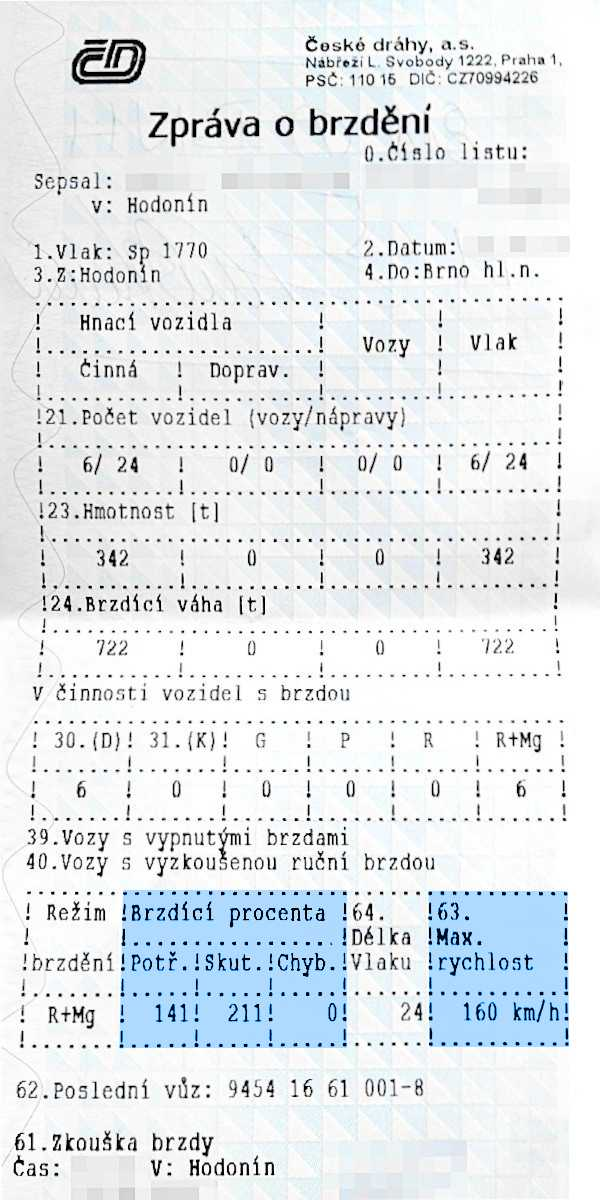
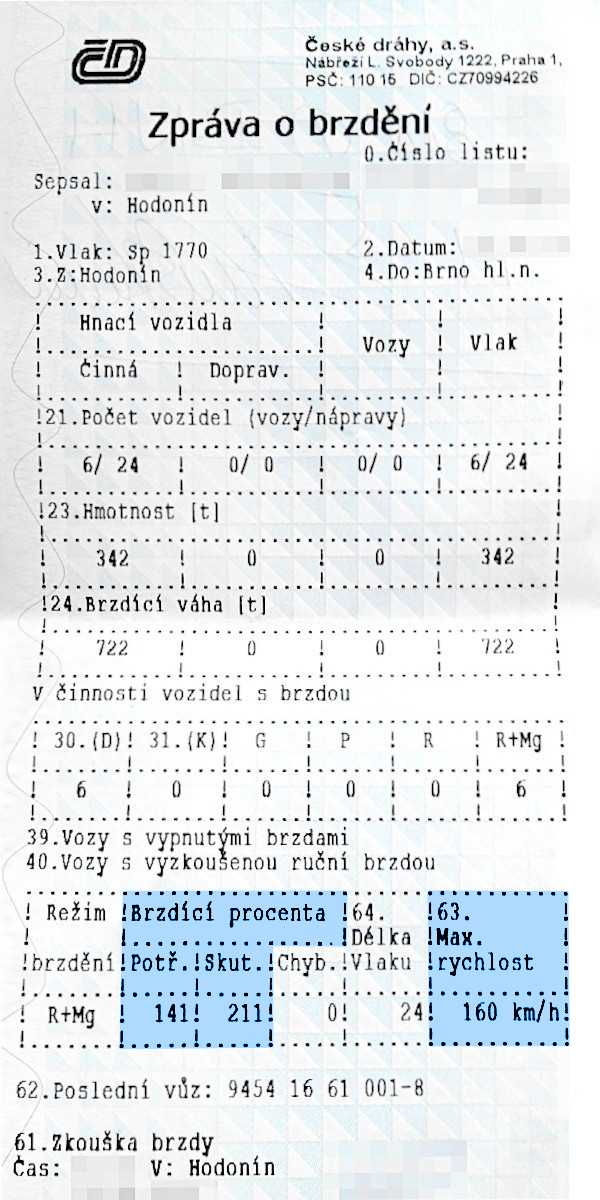
rozpracovane
+ zob-popka WEBP
+ komentáře
+ refaktoring výpočtu, nový způsob vypisování výsledků

Changed region(s): [[0.18, 0.74, 0.6, 0.8942], [0.69, 0.74, 0.96, 0.8633]]

diff --git a/aplikace/sw.js b/aplikace/sw.js
@@ -16,6 +16,7 @@ self.addEventListener('install', e => {
         '/knihovny/brython/brython.js',
         '/knihovny/brython/unicode.txt',
         '/obrazky/zob-popka.jpg',
+        '/obrazky/zob-popka.webp',
         '/obrazky/ikony/android-chrome-192x192.png',
         '/obrazky/ikony/android-chrome-512x512.png',
         '/obrazky/ikony/apple-touch-icon.png',

diff --git a/aplikace/logika.py b/aplikace/logika.py
@@ -1,23 +1,27 @@
+# externí knihovny, třídy atd.
 from browser import window, document, alert
 from javascript import Date
 sw_alert = window.Swal.fire
 
+# globální konstanty
 NAZEV_APLIKACE = "Brzděnka+"
 VERZE = "verze 0.3 | 0.B.3 (\u03B2)"
 AKTUALNI_ROK = Date.new().getFullYear()
 AUTOR = f"\u00A9 {AKTUALNI_ROK}&nbsp;&nbsp;Martin TÁBOR"
 UPOZORNENI = "!!! Všechny informace jsou bez záruky !!!".upper()
-OBRAZEK_ZOB = "./obrazky/zob-popka.jpg"
+OBRAZEK_ZOB = "./obrazky/zob-popka.webp"  # případně *.jpg
 
-barva_normal = "#0073d7" #  modrá
-barva_pozor = "#D70000" #  červená
+BARVA_NORMAL = "#0073d7"  # modrá
+BARVA_POZOR = "#D70000"  # červená
 
+# deklarace globálních proměnných
 tabulka_rychlosti = False
 potrebna_procenta = 0
 skutecna_procenta = 0
-chyby_procent = 0
+chybi_procent = 0
 max_rychlost = 0
 
+# přístup k objektům DOM
 titulek = document["titulek"]
 podnadpis = document["podnadpis"]
 radio_tabulka_ano = document["radio_tabulka_ano"]
@@ -25,148 +29,196 @@ radio_tabulka_ne = document["radio_tabulka_ne"]
 div_formular_vypocet = document["formular_vypocet"]
 input_potrebna = document["input_potrebna_procenta"]
 input_skutecna = document["input_skutecna_procenta"]
-input_chybejici = document["input_chybejici_procenta"]
 label_chybejici = document["label_chybejici_procenta"]
+input_chybejici = document["input_chybejici_procenta"]
 input_max_rychlost = document["input_max_rychlost"]
 button_vypocitat = document["button_vypocitat"]
 button_reset = document["button_reset"]
 
-def napoveda_vyplneni(ev):
+
+def chybne_vyplneni(ev, title, text):
     sw_alert({
-        "title": "Jak na to ?",
-        "text": "Jednoduše opište vyznačené údaje ze ZOB do formuláře\u2026",
+        "title": title,
+        "text": text,
         "icon": "question",
         "confirmButtonText": "Heuréka !",
-        "confirmButtonColor": barva_normal,
+        "confirmButtonColor": BARVA_NORMAL,
         "showCloseButton": True,
         "imageUrl": OBRAZEK_ZOB,
         "imageWidth": 600,
         "imageHeight": 1200,
-        "imageAlt": "Zpráva o brzdění"
+        "imageAlt": "Zpráva o brzdění z POP"
     })
 
 def zpracuj_vysledek(vstup):
     # alert(f"{vstup}\n\n{UPOZORNENI}\n\n{AUTOR}")
+
+    zprava_max_rychlost = "Maximální rychlost vlaku je {} km/h!"
+    zprava_u_vystrahy = "\nV úrovni návěsti Výstraha však max. {} km/h!"
+    zprava_nelze_rozklad = "\nNELZE použít rozklad."
+    
     sw_alert({
         "title": "Zpomal",
         "html": f"{vstup}",
         "icon": "warning",
         "confirmButtonText": "Budiž",
-        "confirmButtonColor": barva_pozor,
-        "footer": f"<div style='text-align: center;'><span style='color: {barva_pozor}'>{UPOZORNENI}</span><br>{AUTOR}</div>"
+        "confirmButtonColor": BARVA_POZOR,
+        "footer": f"<div style='text-align: center;'><span style='color: {BARVA_POZOR}'>{UPOZORNENI}</span><br>{AUTOR}</div>"
     })
 
 def vypocitat(ev):
-    if potrebna_procenta > 0 and skutecna_procenta > 0 and max_rychlost > 0:
-    
-        potrebna_p = potrebna_procenta
-        skutecna_p = skutecna_procenta
-        rychlost_vlaku = max_rychlost
-        
-        zprava = "Maximální rychlost vlaku je {} km/h!"
-        zprava2 = "\nV úrovni návěsti Výstraha však max. {} km/h!"
-        nelze_rozklad = "\nNELZE použít rozklad."
+    if input_potrebna.value.isnumeric() \
+        and input_skutecna.value.isnumeric() \
+            and input_max_rychlost.value.isnumeric():
 
-        # Vstupní parametry
-        prc_mensi_45 = False
-        rych_120_a_vice = False
-        prc_chybejici = potrebna_p - skutecna_p
-        if skutecna_p <= 45:
-            prc_mensi_45 = True
-        if rychlost_vlaku >= 120:
-            rych_120_a_vice = True
-        
-        if potrebna_p == skutecna_p:
-            zpracuj_vysledek("""Rychlost není třeba přepočítávat.
-Brzděte již v dostatečné vzdálenosti před výstrahou!
+        if potrebna_procenta > 0 \
+            and skutecna_procenta > 0 \
+                and max_rychlost > 0:
 
-(Skutečná brzdící procenta jsou stejná jako potřebná.)""")
-        
-        elif 0 < (skutecna_p - potrebna_p) <= 10:
-            zpracuj_vysledek(f"""Rychlost není třeba přepočítávat.
-Brzděte však v dostatečné vzdálenosti před výstrahou!
+            # načtení vstupních hodnot
+            global potrebna_procenta
+            potrebna_procenta = int(input_potrebna.value)
+            global skutecna_procenta
+            skutecna_procenta = int(input_skutecna.value)
+            global chybi_procent
+            chybi_procent = potrebna_procenta - skutecna_procenta
+            if chybi_procent < 0: chybi_procent = 0
+            global max_rychlost
+            max_rychlost = int(input_max_rychlost.value)
+            # lokální pojmenování globálních proměnných
+            potrebna_p = potrebna_procenta
+            skutecna_p = skutecna_procenta
+            rychlost_vlaku = max_rychlost
+            
+            zprava = "Maximální rychlost vlaku je {} km/h!"
+            zprava2 = "\nV úrovni návěsti Výstraha však max. {} km/h!"
+            nelze_rozklad = "\nNELZE použít rozklad."
 
-(Máte jen {skutecna_p - potrebna_p} % navíc.)""")
-
-        elif (skutecna_p - potrebna_p) > 10:
-            zpracuj_vysledek("Máte dostatek brzdících procent.")
-        
-        else:
-            # Výpočet
-            if prc_mensi_45 is False and rych_120_a_vice is False:  # ani <= 45 % A ZÁROVEŇ ani >= 120 km/h
-                nova_rychlost = rychlost_vlaku - prc_chybejici
-                zpracuj_vysledek(zprava.format(nova_rychlost))
-                # print("((debug: 1))")  # debug
-
-            elif prc_mensi_45 and rych_120_a_vice is False:
-                nova_rychlost = rychlost_vlaku - (2 * prc_chybejici)
-                zpracuj_vysledek(zprava.format(nova_rychlost) + "\n\n(Skutečná % jsou <= 45.)")
-                # print("((debug: 2))")  # debug
-
-            elif prc_mensi_45 is False and rych_120_a_vice:
-                nova_rychlost = rychlost_vlaku - prc_chybejici
-                if 120 < (nova_rychlost - 20):
-                    zpracuj_vysledek(zprava.format(nova_rychlost) + zprava2.format(nova_rychlost - 20))
-                    # print("((debug: 3a))")  # debug
-                else:
-                    nova_rychlost -= 20
-                    zpracuj_vysledek(zprava.format(nova_rychlost) + nelze_rozklad)
-                    # print("((debug: 3b))")  # debug
-
-            elif prc_mensi_45 and rych_120_a_vice:
-                nova_rychlost = rychlost_vlaku - (2 * prc_chybejici)
-                if 120 < (nova_rychlost - 20):
-                    zpracuj_vysledek(zprava.format(nova_rychlost) + zprava2.format(nova_rychlost - 20) +
-                                "\n\n(Skutečná % jsou <= 45.)")
-                    # print("((debug: 4a))")  # debug
-                else:
-                    nova_rychlost -= 20
-                    zpracuj_vysledek(zprava.format(nova_rychlost) + nelze_rozklad + "\n\n(Skutečná % jsou <= 45.)")
-                    # print("((debug: 4b))")  # debug
+            # zjištění dalších vstupních parametrů
+            # skutečná procenta <= 45 ?
+            if skutecna_p <= 45:
+                prc_mensi_45 = True
             else:
-                print("((debug: 5 | toto else nemělo nastat = nějaká varianta je nedořešena))")  # debug
-                pass
+                prc_mensi_45 = False
+            # původní max. rychlost >= 120 km/h ?
+            if rychlost_vlaku >= 120:
+                rych_120_a_vice = True
+            else:
+                rych_120_a_vice = False
+            # chybějící procenta ?
+            prc_chybejici = potrebna_p - skutecna_p
+            
+            
+            if potrebna_p == skutecna_p:
+                zpracuj_vysledek("""Rychlost není třeba přepočítávat.
+    Brzděte již v dostatečné vzdálenosti před výstrahou!
+
+    (Skutečná brzdící procenta jsou stejná jako potřebná.)""")
+            
+            elif 0 < (skutecna_p - potrebna_p) <= 10:
+                zpracuj_vysledek(f"""Rychlost není třeba přepočítávat.
+    Brzděte však v dostatečné vzdálenosti před výstrahou!
+
+    (Máte jen {skutecna_p - potrebna_p} % navíc.)""")
+
+            elif (skutecna_p - potrebna_p) > 10:
+                zpracuj_vysledek("Máte dostatek brzdících procent.")
+            
+            else:
+                # Výpočet
+                if prc_mensi_45 is False and rych_120_a_vice is False:  # ani <= 45 % A ZÁROVEŇ ani >= 120 km/h
+                    nova_rychlost = rychlost_vlaku - prc_chybejici
+                    zpracuj_vysledek(zprava.format(nova_rychlost))
+                    # print("((debug: 1))")  # debug
+
+                elif prc_mensi_45 and rych_120_a_vice is False:
+                    nova_rychlost = rychlost_vlaku - (2 * prc_chybejici)
+                    zpracuj_vysledek(zprava.format(nova_rychlost) + "\n\n(Skutečná % jsou <= 45.)")
+                    # print("((debug: 2))")  # debug
+
+                elif prc_mensi_45 is False and rych_120_a_vice:
+                    nova_rychlost = rychlost_vlaku - prc_chybejici
+                    if 120 < (nova_rychlost - 20):
+                        zpracuj_vysledek(zprava.format(nova_rychlost) + zprava2.format(nova_rychlost - 20))
+                        # print("((debug: 3a))")  # debug
+                    else:
+                        nova_rychlost -= 20
+                        zpracuj_vysledek(zprava.format(nova_rychlost) + nelze_rozklad)
+                        # print("((debug: 3b))")  # debug
+
+                elif prc_mensi_45 and rych_120_a_vice:
+                    nova_rychlost = rychlost_vlaku - (2 * prc_chybejici)
+                    if 120 < (nova_rychlost - 20):
+                        zpracuj_vysledek(zprava.format(nova_rychlost) + zprava2.format(nova_rychlost - 20) +
+                                    "\n\n(Skutečná % jsou <= 45.)")
+                        # print("((debug: 4a))")  # debug
+                    else:
+                        nova_rychlost -= 20
+                        zpracuj_vysledek(zprava.format(nova_rychlost) + nelze_rozklad + "\n\n(Skutečná % jsou <= 45.)")
+                        # print("((debug: 4b))")  # debug
+                else:
+                    print("((debug: 5 | toto else nemělo nastat = nějaká varianta je nedořešena))")  # debug
+                    pass
+        else:
+            # některé políčko formuláře obsahuje hodnotu <= 0
+            chybne_vyplneni(ev,
+            title="Překlep ?",
+            text="Všechny údaje v(e) ZOB by měly být větší než nula\u2026")
     else:
-        napoveda_vyplneni(ev)
+        # některé políčko formuláře neobsahuje číslo
+        chybne_vyplneni(ev,
+            title="Jak na to ?",
+            text="Jednoduše přepište všechny vyznačené údaje ze ZOB do formuláře\u2026")
 
 
 def input_zmena(ev):
     # alert(ev.srcElement.id)  # debug
 
-    if input_potrebna.value.isnumeric():
+    if input_potrebna.value.isnumeric() \
+        and input_skutecna.value.isnumeric():
+
         global potrebna_procenta
         potrebna_procenta = int(input_potrebna.value)
         
-    if input_skutecna.value.isnumeric():
         global skutecna_procenta
         skutecna_procenta = int(input_skutecna.value)
-        
-    global chyby_procent
-    chyby_procent = potrebna_procenta - skutecna_procenta
-    if chyby_procent <= 0:
-        chyby_procent = 0
-        input_chybejici.style.color = barva_normal
-        label_chybejici.style.color = barva_normal
+
+        global chybi_procent
+        chybi_procent = potrebna_procenta - skutecna_procenta
+        if chybi_procent < 0: chybi_procent = 0
+
+        # změna DOM - mění hodnotu a vzhled zobrazení Chybí
+        input_chybejici.value = str(chybi_procent)
+        if chybi_procent <= 0:
+            chybi_procent = 0
+            input_chybejici.style.color = BARVA_NORMAL
+            label_chybejici.style.color = BARVA_NORMAL
+        else:
+            input_chybejici.style.color = BARVA_POZOR
+            label_chybejici.style.color = BARVA_POZOR
     else:
-        input_chybejici.style.color = barva_pozor
-        label_chybejici.style.color = barva_pozor
-    input_chybejici.value = str(chyby_procent)
-    
+        # spustí se vždy, když nejsou vyplněna všechna políčka
+        # => znemožňuje vyplnění formuláře
+        pass
+
     if input_max_rychlost.value.isnumeric():
         global max_rychlost
         max_rychlost = int(input_max_rychlost.value)
-
+    
+    # změna DOM - skryje či zobrazí formulář - existuje tabulka ano/ne
     if radio_tabulka_ano.checked:
         div_formular_vypocet.style.display = "none"
         sw_alert({
             "icon": "info",
             "title": "Existuje tabulka ?",
-            "text": "Při určení maximální rychlosti se řiďte danou tabulkou !",
-            "confirmButtonColor": barva_normal
+            "text": "Při určení maximální rychlosti se tedy řiďte jejími údaji !",
+            "confirmButtonColor": BARVA_NORMAL
         })
     else:
         div_formular_vypocet.style.display = "unset"
 
+
+# změna DOM - smaže formulář
 def reset(ev):
     global tabulka_rychlosti
     tabulka_rychlosti = False
@@ -180,22 +232,24 @@ def reset(ev):
     skutecna_procenta = 0
     input_skutecna.value = ""
 
-    global chyby_procent
-    chyby_procent = 0
+    global chybi_procent
+    chybi_procent = 0
     input_chybejici.value = "0"
 
     global max_rychlost
     max_rychlost = 0
     input_max_rychlost.value = ""
     
-    label_chybejici.style.color = barva_normal
-    input_chybejici.style.color = barva_normal
+    label_chybejici.style.color = BARVA_NORMAL
+    input_chybejici.style.color = BARVA_NORMAL
 
 
+# změna DOM - zobrazení dle konstant
 document.title = NAZEV_APLIKACE
 titulek.textContent = NAZEV_APLIKACE
 podnadpis.textContent = VERZE
 
+# přiřazení funkcí k událostem
 button_vypocitat.bind("click", vypocitat)
 button_reset.bind("click", reset)
 for input in document.select("input"):
